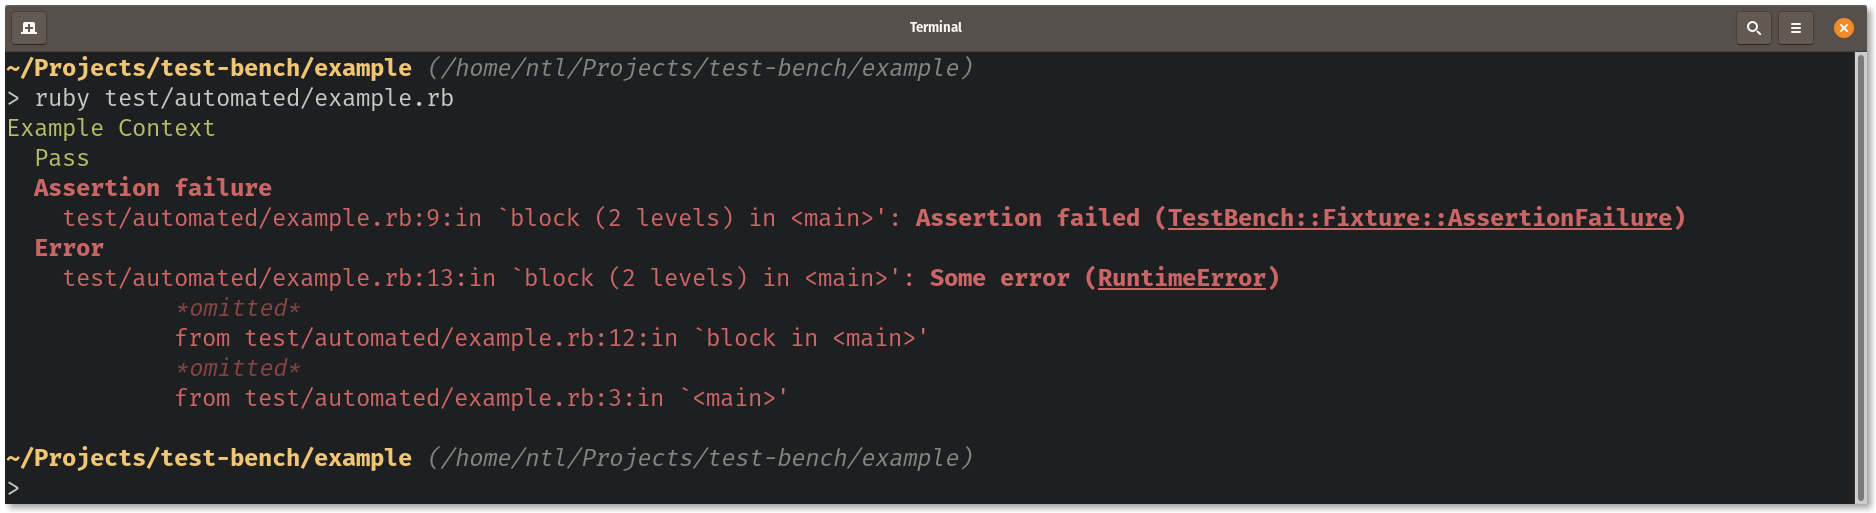
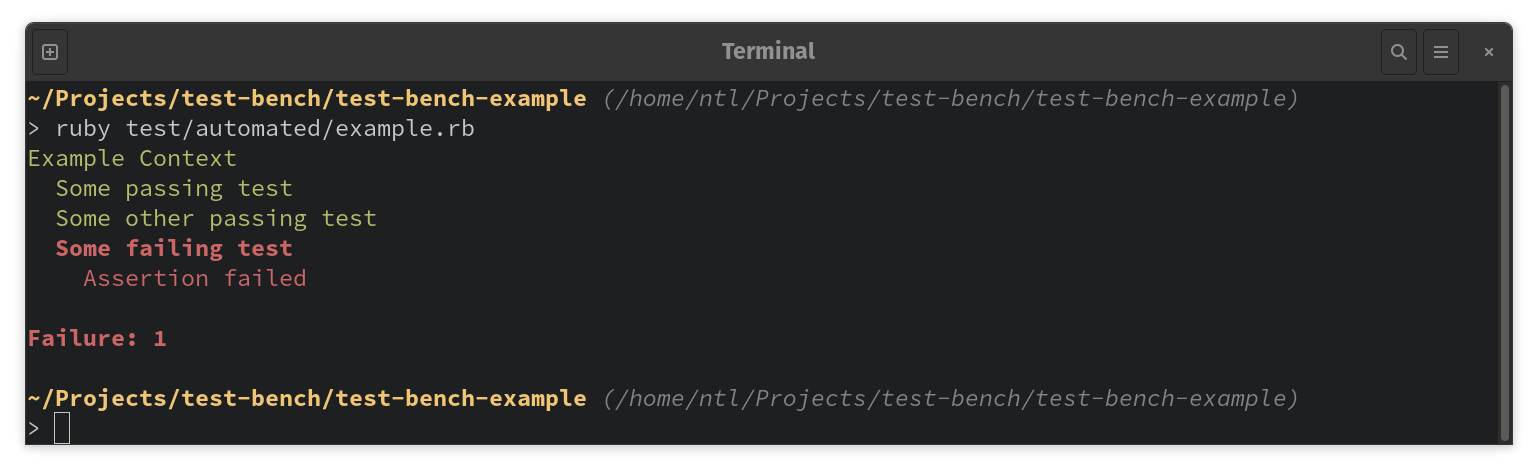
Example is updated

Changed region(s): [[0.0, 0.0, 0.9987, 1.0]]

diff --git a/test/automated/example.rb b/test/automated/example.rb
@@ -1,15 +1,15 @@
 require_relative './automated_init'
 
 context "Example Context" do
-  test "Pass" do
+  test "Some passing test" do
     assert(true)
   end
 
-  test "Assertion failure" do
-    assert(false)
+  test "Some other passing test" do
+    assert(true)
   end
 
-  test "Error" do
-    fail "Some error"
+  test "Some failing test" do
+    assert(false)
   end
 end
